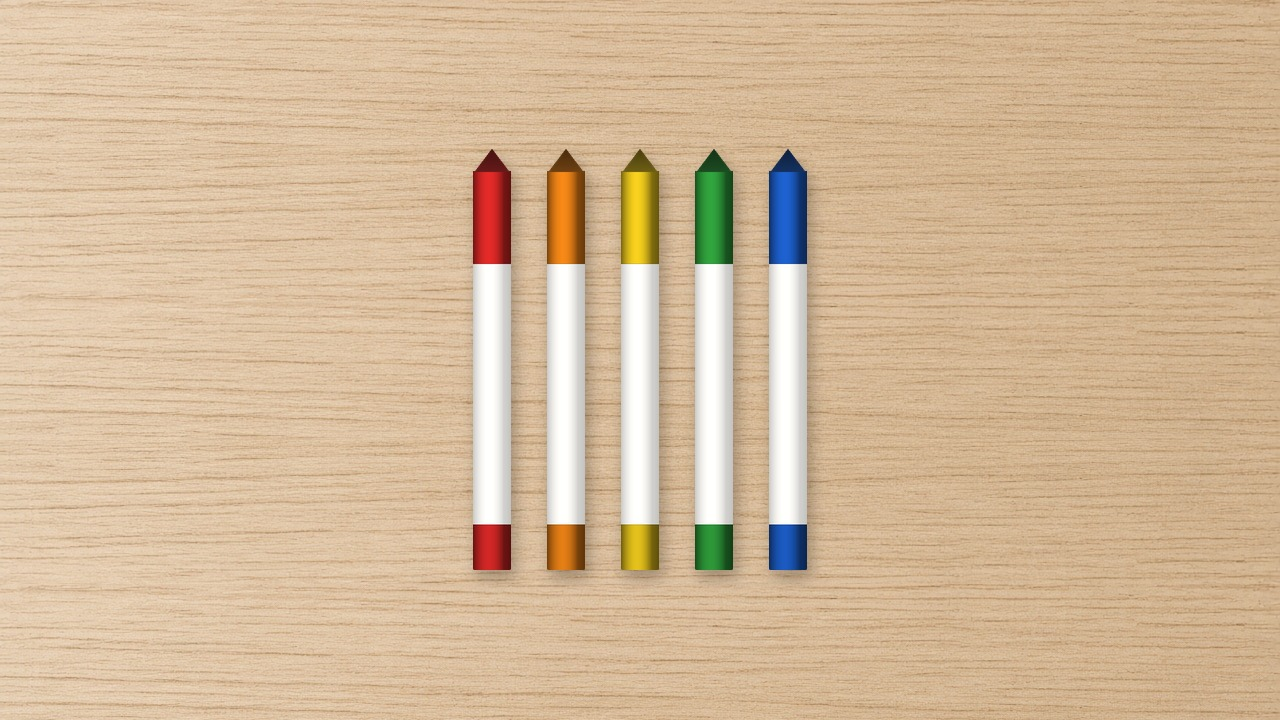
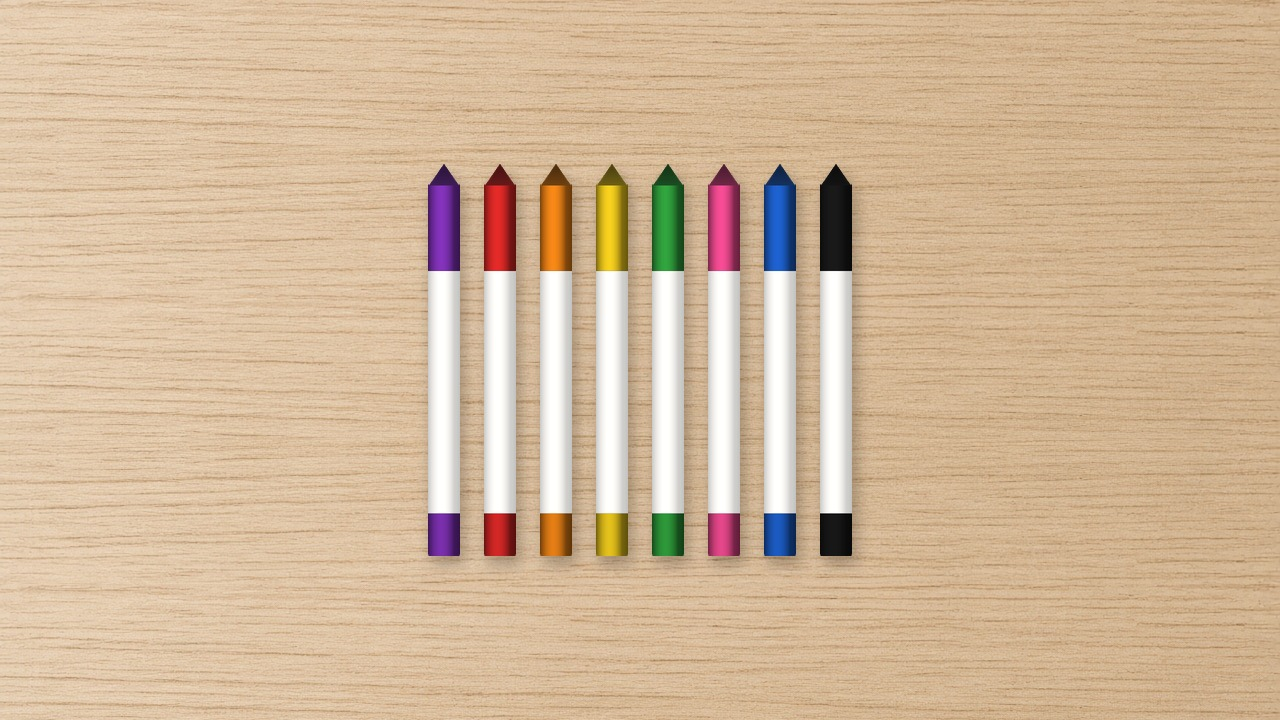
Add Contact Us, Coloured Pen 8 Pack, and extra prices
Hamburger now ends with Contact Us. Contact page is a small Chores
photo and a mailto. Coloured pens are an 8 pack at $5 with eight
upright pens on the old wood. Black Pen 5 Pack is $1. FAQ 4 and
README match. Cache is ?v=2.64.

Changed region(s): [[0.3125, 0.2139, 0.6875, 0.825]]

diff --git a/coloured-pen-pack.html b/coloured-pen-pack.html
@@ -4,37 +4,37 @@
   <meta charset="utf-8">
   <meta name="viewport" content="width=device-width, initial-scale=1">
   <link rel="icon" href="favicon.svg" type="image/svg+xml">
-  <title>Coloured Pen 5 Pack — FamilyBoards</title>
-  <meta name="description" content="Five mini dry-erase pens. White barrel, coloured caps: red, orange, yellow, green, and blue. No holder.">
+  <title>Coloured Pen 8 Pack — FamilyBoards</title>
+  <meta name="description" content="Eight mini dry-erase pens. White barrel, coloured caps: purple, red, orange, yellow, green, pink, blue, and black. No holder.">
   <link rel="preconnect" href="https://fonts.googleapis.com">
   <link rel="preconnect" href="https://fonts.gstatic.com" crossorigin>
   <link href="https://fonts.googleapis.com/css2?family=DM+Sans:opsz,wght@9..40,600&family=Fraunces:opsz,wght@9..144,600&family=Nunito+Sans:wght@500;700;800&display=swap" rel="stylesheet">
-  <link rel="stylesheet" href="css/styles.css?v=2.63">
+  <link rel="stylesheet" href="css/styles.css?v=2.64">
 </head>
 <body>
   <div id="site-header"></div>
   <main class="wrap product product-photo">
     <div>
-      <div class="board-stage photo-stage" role="region" aria-label="Coloured Pen 5 Pack.">
+      <div class="board-stage photo-stage" role="region" aria-label="Coloured Pen 8 Pack.">
         <figure class="hero-photo-frame">
-          <img src="images/coloured-pen-pack-hero.jpg" width="1280" height="720" alt="Five slim mini dry-erase pens standing on light wood: white barrels with red, orange, yellow, green, and blue caps and matching coloured ends. No holder and no logo on the pens.">
+          <img src="images/coloured-pen-pack-hero.jpg?v=2.64" width="1280" height="720" alt="Eight slim mini dry-erase pens standing on light wood: white barrels with purple, red, orange, yellow, green, pink, blue, and black caps and matching coloured ends. No holder and no logo on the pens.">
         </figure>
       </div>
     </div>
     <aside class="buy-panel">
       <p class="kicker">Extra</p>
-      <h1>Coloured Pen 5 Pack</h1>
-      <p class="muted">Five mini dry-erase pens. White barrel, coloured caps: red, orange, yellow, green, and blue. No holder.</p>
+      <h1>Coloured Pen 8 Pack</h1>
+      <p class="muted">Eight mini dry-erase pens. White barrel, coloured caps: purple, red, orange, yellow, green, pink, blue, and black. No holder.</p>
       <div class="price-row">
-        <span class="muted">Five pens</span>
-        <strong>$12</strong>
+        <span class="muted">Eight pens</span>
+        <strong>$5</strong>
       </div>
       <button class="btn" id="add-pack" type="button" data-sku="coloured-pen-pack">Add to cart</button>
     </aside>
   </main>
   <footer id="site-footer" class="wrap"></footer>
   <script src="js/store.js"></script>
-  <script src="js/site.js?v=2.63"></script>
+  <script src="js/site.js?v=2.64"></script>
   <script src="js/photo-pack.js"></script>
 </body>
 </html>

diff --git a/index.html b/index.html
@@ -9,7 +9,7 @@
   <link rel="preconnect" href="https://fonts.googleapis.com">
   <link rel="preconnect" href="https://fonts.gstatic.com" crossorigin>
   <link href="https://fonts.googleapis.com/css2?family=DM+Sans:opsz,wght@9..40,600&family=Fraunces:opsz,wght@9..144,600&family=Nunito+Sans:wght@500;700;800&display=swap" rel="stylesheet">
-  <link rel="stylesheet" href="css/styles.css?v=2.63">
+  <link rel="stylesheet" href="css/styles.css?v=2.64">
 </head>
 <body>
   <div id="site-header"></div>
@@ -123,15 +123,15 @@
         </div>
         <h3>Black Pen 5 Pack</h3>
         <p class="muted">Five mini dry-erase pens. White barrel, black cap.</p>
-        <p class="price">$12</p>
+        <p class="price">$1</p>
       </a>
       <a class="card" href="coloured-pen-pack.html">
         <div class="thumb thumb-board thumb-pen" aria-hidden="true">
-          <img src="images/coloured-pen-pack-hero.jpg" width="1280" height="720" alt="">
+          <img src="images/coloured-pen-pack-hero.jpg?v=2.64" width="1280" height="720" alt="">
         </div>
-        <h3>Coloured Pen 5 Pack</h3>
-        <p class="muted">Five mini dry-erase pens. White barrel, coloured caps.</p>
-        <p class="price">$12</p>
+        <h3>Coloured Pen 8 Pack</h3>
+        <p class="muted">Eight mini dry-erase pens. White barrel, coloured caps.</p>
+        <p class="price">$5</p>
       </a>
       <a class="card" href="fridge-holder.html">
         <div class="thumb thumb-board" aria-hidden="true">
@@ -146,6 +146,6 @@
   </main>
   <footer id="site-footer" class="wrap"></footer>
   <script src="js/store.js"></script>
-  <script src="js/site.js?v=2.63"></script>
+  <script src="js/site.js?v=2.64"></script>
 </body>
 </html>

diff --git a/contact.html b/contact.html
@@ -4,7 +4,7 @@
   <meta charset="utf-8">
   <meta name="viewport" content="width=device-width, initial-scale=1">
   <link rel="icon" href="favicon.svg" type="image/svg+xml">
-  <title>Order placed — FamilyBoards</title>
+  <title>Contact Us — FamilyBoards</title>
   <link rel="preconnect" href="https://fonts.googleapis.com">
   <link rel="preconnect" href="https://fonts.gstatic.com" crossorigin>
   <link href="https://fonts.googleapis.com/css2?family=Fraunces:opsz,wght@9..144,600&family=Nunito+Sans:wght@500;700;800&display=swap" rel="stylesheet">
@@ -12,16 +12,14 @@
 </head>
 <body>
   <div id="site-header"></div>
-  <main class="wrap success">
-    <div class="success-mark" aria-hidden="true">✓</div>
-    <h1>Order placed</h1>
-    <p class="lede" style="margin: 0 auto 24px">Thanks — your FamilyBoards order is in.</p>
-    <div id="order-box" class="buy-panel" style="text-align:left;max-width:520px;margin:0 auto 24px"></div>
-    <a class="btn" href="index.html">Back to shop</a>
+  <main class="wrap">
+    <div class="contact-page">
+      <img src="images/chores-hero-photo.png" width="1280" height="720" alt="FamilyBoards Chores board on light wood, with name rows and weekly chore tiles.">
+      <p><a href="mailto:contact@familyboards.co.nz">contact@familyboards.co.nz</a></p>
+    </div>
   </main>
   <footer id="site-footer" class="wrap"></footer>
   <script src="js/store.js"></script>
   <script src="js/site.js?v=2.64"></script>
-  <script src="js/success-page.js"></script>
 </body>
 </html>

diff --git a/faqs.html b/faqs.html
@@ -8,7 +8,7 @@
   <link rel="preconnect" href="https://fonts.googleapis.com">
   <link rel="preconnect" href="https://fonts.gstatic.com" crossorigin>
   <link href="https://fonts.googleapis.com/css2?family=Fraunces:opsz,wght@9..144,600&family=Nunito+Sans:wght@500;700;800&display=swap" rel="stylesheet">
-  <link rel="stylesheet" href="css/styles.css?v=2.63">
+  <link rel="stylesheet" href="css/styles.css?v=2.64">
 </head>
 <body>
   <div id="site-header"></div>
@@ -22,13 +22,13 @@
     <h2>Can I write on the boards?</h2>
     <p>Yes. You can write on any of our boards with a dry-erase pen, use the word tiles, or mix both.</p>
     <h2>Which pens should I use?</h2>
-    <p>Use our Black Pen 5 Pack or Coloured Pen 5 Pack. They're mini dry-erase pens that wipe clean.</p>
+    <p>Use our Black Pen 5 Pack or Coloured Pen 8 Pack. They're mini dry-erase pens that wipe clean.</p>
     <h2>Can I put my kids' names on it?</h2>
     <p>Yes. Custom Words gives you blank tiles to write names or anything else on.</p>
     </div>
   </main>
   <footer id="site-footer" class="wrap"></footer>
   <script src="js/store.js"></script>
-  <script src="js/site.js?v=2.63"></script>
+  <script src="js/site.js?v=2.64"></script>
 </body>
 </html>

diff --git a/black-pen-pack.html b/black-pen-pack.html
@@ -9,7 +9,7 @@
   <link rel="preconnect" href="https://fonts.googleapis.com">
   <link rel="preconnect" href="https://fonts.gstatic.com" crossorigin>
   <link href="https://fonts.googleapis.com/css2?family=DM+Sans:opsz,wght@9..40,600&family=Fraunces:opsz,wght@9..144,600&family=Nunito+Sans:wght@500;700;800&display=swap" rel="stylesheet">
-  <link rel="stylesheet" href="css/styles.css?v=2.63">
+  <link rel="stylesheet" href="css/styles.css?v=2.64">
 </head>
 <body>
   <div id="site-header"></div>
@@ -27,14 +27,14 @@
       <p class="muted">Five mini dry-erase pens. White barrel, black cap, fine black tip. No holder.</p>
       <div class="price-row">
         <span class="muted">Five pens</span>
-        <strong>$12</strong>
+        <strong>$1</strong>
       </div>
       <button class="btn" id="add-pack" type="button" data-sku="black-pen-pack">Add to cart</button>
     </aside>
   </main>
   <footer id="site-footer" class="wrap"></footer>
   <script src="js/store.js"></script>
-  <script src="js/site.js?v=2.63"></script>
+  <script src="js/site.js?v=2.64"></script>
   <script src="js/photo-pack.js"></script>
 </body>
 </html>

diff --git a/chores.html b/chores.html
@@ -9,7 +9,7 @@
   <link rel="preconnect" href="https://fonts.googleapis.com">
   <link rel="preconnect" href="https://fonts.gstatic.com" crossorigin>
   <link href="https://fonts.googleapis.com/css2?family=DM+Sans:ital,opsz,wght@0,9..40,500;0,9..40,600;0,9..40,700;1,9..40,500&family=Fraunces:opsz,wght@9..144,600&family=Nunito+Sans:wght@500;700;800&display=swap" rel="stylesheet">
-  <link rel="stylesheet" href="css/styles.css?v=2.63">
+  <link rel="stylesheet" href="css/styles.css?v=2.64">
 </head>
 <body>
   <div id="site-header"></div>
@@ -46,7 +46,7 @@
   </main>
   <footer id="site-footer" class="wrap"></footer>
   <script src="js/store.js"></script>
-  <script src="js/site.js?v=2.63"></script>
-  <script src="js/chores.js?v=2.63"></script>
+  <script src="js/site.js?v=2.64"></script>
+  <script src="js/chores.js?v=2.64"></script>
 </body>
 </html>

diff --git a/house-rules.html b/house-rules.html
@@ -9,7 +9,7 @@
   <link rel="preconnect" href="https://fonts.googleapis.com">
   <link rel="preconnect" href="https://fonts.gstatic.com" crossorigin>
   <link href="https://fonts.googleapis.com/css2?family=DM+Sans:ital,opsz,wght@0,9..40,500;0,9..40,600;0,9..40,700;1,9..40,500&family=Fraunces:opsz,wght@9..144,600&family=Nunito+Sans:wght@500;700;800&display=swap" rel="stylesheet">
-  <link rel="stylesheet" href="css/styles.css?v=2.63">
+  <link rel="stylesheet" href="css/styles.css?v=2.64">
 </head>
 <body>
   <div id="site-header"></div>
@@ -38,7 +38,7 @@
   </main>
   <footer id="site-footer" class="wrap"></footer>
   <script src="js/store.js"></script>
-  <script src="js/site.js?v=2.63"></script>
+  <script src="js/site.js?v=2.64"></script>
   <script src="js/photo-board.js"></script>
 </body>
 </html>

diff --git a/meal-plan.html b/meal-plan.html
@@ -9,7 +9,7 @@
   <link rel="preconnect" href="https://fonts.googleapis.com">
   <link rel="preconnect" href="https://fonts.gstatic.com" crossorigin>
   <link href="https://fonts.googleapis.com/css2?family=DM+Sans:ital,opsz,wght@0,9..40,500;0,9..40,600;0,9..40,700;1,9..40,500&family=Fraunces:opsz,wght@9..144,600&family=Nunito+Sans:wght@500;700;800&display=swap" rel="stylesheet">
-  <link rel="stylesheet" href="css/styles.css?v=2.63">
+  <link rel="stylesheet" href="css/styles.css?v=2.64">
 </head>
 <body>
   <div id="site-header"></div>
@@ -38,7 +38,7 @@
   </main>
   <footer id="site-footer" class="wrap"></footer>
   <script src="js/store.js"></script>
-  <script src="js/site.js?v=2.63"></script>
+  <script src="js/site.js?v=2.64"></script>
   <script src="js/photo-board.js"></script>
 </body>
 </html>

diff --git a/routines.html b/routines.html
@@ -9,7 +9,7 @@
   <link rel="preconnect" href="https://fonts.googleapis.com">
   <link rel="preconnect" href="https://fonts.gstatic.com" crossorigin>
   <link href="https://fonts.googleapis.com/css2?family=DM+Sans:ital,opsz,wght@0,9..40,500;0,9..40,600;0,9..40,700;1,9..40,500&family=Fraunces:opsz,wght@9..144,600&family=Nunito+Sans:wght@500;700;800&display=swap" rel="stylesheet">
-  <link rel="stylesheet" href="css/styles.css?v=2.63">
+  <link rel="stylesheet" href="css/styles.css?v=2.64">
 </head>
 <body>
   <div id="site-header"></div>
@@ -45,7 +45,7 @@
   </main>
   <footer id="site-footer" class="wrap"></footer>
   <script src="js/store.js"></script>
-  <script src="js/site.js?v=2.63"></script>
+  <script src="js/site.js?v=2.64"></script>
   <script src="js/photo-board.js"></script>
 </body>
 </html>

diff --git a/shopping-list.html b/shopping-list.html
@@ -9,7 +9,7 @@
   <link rel="preconnect" href="https://fonts.googleapis.com">
   <link rel="preconnect" href="https://fonts.gstatic.com" crossorigin>
   <link href="https://fonts.googleapis.com/css2?family=DM+Sans:ital,opsz,wght@0,9..40,500;0,9..40,600;0,9..40,700;1,9..40,500&family=Fraunces:opsz,wght@9..144,600&family=Nunito+Sans:wght@500;700;800&display=swap" rel="stylesheet">
-  <link rel="stylesheet" href="css/styles.css?v=2.63">
+  <link rel="stylesheet" href="css/styles.css?v=2.64">
 </head>
 <body>
   <div id="site-header"></div>
@@ -38,7 +38,7 @@
   </main>
   <footer id="site-footer" class="wrap"></footer>
   <script src="js/store.js"></script>
-  <script src="js/site.js?v=2.63"></script>
+  <script src="js/site.js?v=2.64"></script>
   <script src="js/photo-board.js"></script>
 </body>
 </html>

diff --git a/weekly.html b/weekly.html
@@ -9,7 +9,7 @@
   <link rel="preconnect" href="https://fonts.googleapis.com">
   <link rel="preconnect" href="https://fonts.gstatic.com" crossorigin>
   <link href="https://fonts.googleapis.com/css2?family=DM+Sans:ital,opsz,wght@0,9..40,500;0,9..40,600;0,9..40,700;1,9..40,500&family=Fraunces:opsz,wght@9..144,600&family=Nunito+Sans:wght@500;700;800&display=swap" rel="stylesheet">
-  <link rel="stylesheet" href="css/styles.css?v=2.63">
+  <link rel="stylesheet" href="css/styles.css?v=2.64">
 </head>
 <body>
   <div id="site-header"></div>
@@ -46,7 +46,7 @@
   </main>
   <footer id="site-footer" class="wrap"></footer>
   <script src="js/store.js"></script>
-  <script src="js/site.js?v=2.63"></script>
+  <script src="js/site.js?v=2.64"></script>
   <script src="js/photo-board.js"></script>
 </body>
 </html>

diff --git a/fridge-holder.html b/fridge-holder.html
@@ -9,7 +9,7 @@
   <link rel="preconnect" href="https://fonts.googleapis.com">
   <link rel="preconnect" href="https://fonts.gstatic.com" crossorigin>
   <link href="https://fonts.googleapis.com/css2?family=DM+Sans:opsz,wght@9..40,600&family=Fraunces:opsz,wght@9..144,600&family=Nunito+Sans:wght@500;700;800&display=swap" rel="stylesheet">
-  <link rel="stylesheet" href="css/styles.css?v=2.63">
+  <link rel="stylesheet" href="css/styles.css?v=2.64">
 </head>
 <body>
   <div id="site-header"></div>
@@ -34,7 +34,7 @@
   </main>
   <footer id="site-footer" class="wrap"></footer>
   <script src="js/store.js"></script>
-  <script src="js/site.js?v=2.63"></script>
+  <script src="js/site.js?v=2.64"></script>
   <script src="js/photo-pack.js"></script>
 </body>
 </html>
